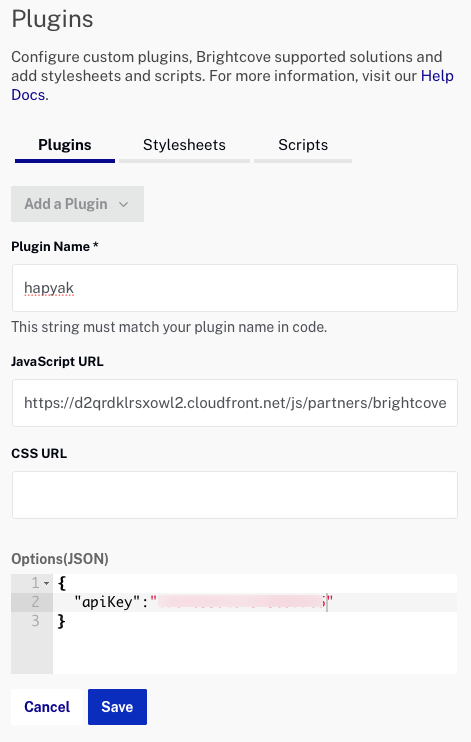
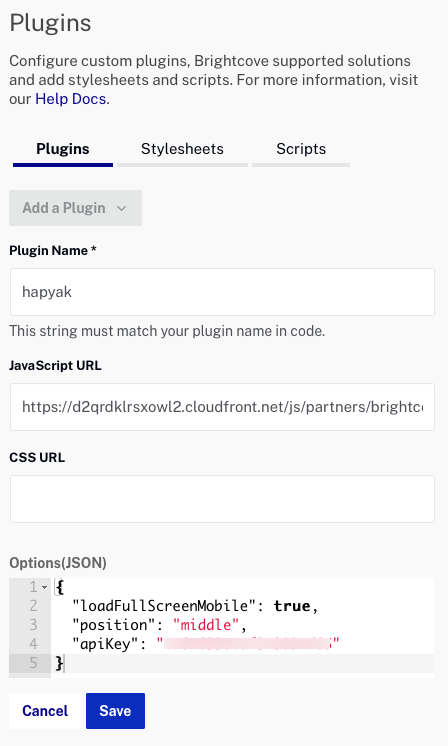
updates

diff --git a/_site/interactivity/getting-started-interactivity.html b/_site/interactivity/getting-started-interactivity.html
@@ -1262,7 +1262,13 @@ function doGTranslate(lang_pair) {if(lang_pair.value)lang_pair=lang_pair.value;i
 {
 "apiKey":"your HapYak API Read Key"
 }
-</code></pre>
+</code></pre></li>
+        <li>Some mobile devices will strip interactive elements when videos are opened in device-native players such as the  QuickTime player on iOS devices. HapYak has created a solution that overrides the default behavior of video on iOS and Android devices. By &quot;mocking full screen&quot;,  videos can play  full screen and retain HapYak interactive features. The following parameters can be added to the <strong>Options(JSON)</strong> to improve the experience on mobile devices:
+          <ul>
+          <li><strong><code>loadFullScreenMobile: true</code></strong> - Overrides the default fullscreen behavior on iOS devices</li>
+          <li><strong><code>position: middle</code></strong> - Ensures that the video appears in the middle of the devices display in portrait mode (mimics default behavior of all mobile devices)</li>
+        </ul>
+      </li>
         <figure class="bcls-figure"><img src="/assets/images/interactivity/gsi-plugin-settings.png"> </figure>
       </li>
       <li>If you wish to configure a &quot;read-only&quot; player which will display interactivity on existing Hapyak projects but will <strong>NOT</strong> publish any new projects, add the following parameter to the <strong>Options(JSON)</strong>, below the <code>apiKey</code> value:
@@ -1325,6 +1331,14 @@ function doGTranslate(lang_pair) {if(lang_pair.value)lang_pair=lang_pair.value;i
       </li>
       <li>Copy the embed code and paste it into your webpage.</li>
     </ol>
+<p>Additionally, in the embed code, you <strong>MUST</strong> add <code>playsinline</code> inside the <code>&lt;video-js&gt;</code> tag. Please reference the examples below:</p>
+<h3>Standard</h3>
+<pre>&lt;div<br>  style=&quot;position: relative; display: block; max-width: 960px;&quot;&gt;<br>  &lt;div<br>    style=&quot;padding-top: 56.25%;&quot;&gt;<br>    &lt;iframe<br>      src=&quot;//players.brightcove.net/1486906377/dunFq3vI6_default/index.html&quot;  <br>      playsinline<br>      allowfullscreen=&quot;&quot;<br>      allow=&quot;encrypted-media&quot;<br>      style=&quot;position: absolute; top: 0px; right: 0px; bottom: 0px; left: 0px; width: 100%; height: 100%;&quot;&gt;&lt;/iframe&gt;<br>  &lt;/div&gt;<br>&lt;/div&gt;</pre>
+<h3>Advanced</h3>
+<pre><code>
+&lt;div style=&quot;max-width: 960px;&quot;&gt;<br>  &lt;video-js
+    playsinline<br>    data-account=&quot;1486906377&quot;<br>    data-player=&quot;dunFq3vI6&quot;<br>    data-embed=&quot;default&quot;<br>    controls=&quot;&quot;<br>    data-application-id=&quot;&quot;<br>    class=&quot;vjs-fluid&quot;<br>    style=&quot;padding-top: 56.25%;&quot;&gt;<br>  &lt;/video-js&gt;<br>&lt;/div&gt;<br>&lt;script<br>  src=&quot;//players.brightcove.net/1486906377/dunFq3vI6_default/index.min.js&quot;&gt;<br>&lt;/script&gt;
+</code></pre>
   </section>
   <section class="bcls-section">
     <h2 id="works">How it works</h2>
@@ -1355,59 +1369,6 @@ function doGTranslate(lang_pair) {if(lang_pair.value)lang_pair=lang_pair.value;i
       <li>Do not manually modify the video source of a HapYak project that was automatically created. </li>
       <li>Do not use the EMBED code generated from the HapYak tools when using the plugin. Instead publish your videos per the normal Brightcove workflow.</li>
       <li>Workflow-generated projects can be deleted through the HapYak UI. Please note that subsequent loads of the corresponding video through the Brightcove Player will not auto-generate a separate project in the portal.</li>
-    </ol>
-  </section>
-  <section class="bcls-section">
-    <h2 id="advanced">Advanced</h2>
-    <ol class="bcls-tasklist-restart">
-      <li>You can tag a HapYak Template and add the same tag to multiple Brightcove videos. This is a quick and easy way to add identical annotations to dozens or hundreds of Brightcove videos. For example, if your video is tagged "click-to-buy-cta" then a matching HapYak Template also tagged "click-to-buy-cta" will be added to that video.</li>
-      <li>A custom javascript method can be provided to capture tracking events as they occur. To do so simply add the location of your javascript file in the plugin options for "hapyak"
-        <pre><code>
-{
-  "apiKey": …,
-  "customTracking": "https://dmhl2y7t4r72w.cloudfront.net/brightcove/bcovTrackingHandler.js"
-}
-</code></pre>
-      </li>
-      <li>HapYak loads its own copy of JQuery by default.   If you embed the Brightcove Player with the HapYak plugin enabled, HapYak will override an existing copy of JQuery already on the page when it loads.   To prevent this behavior and preserve an existing copy of JQuery, you must pass the “preserveJQuery” option in plugin options when setting up the plugin.   For example, specifying
-        <pre><code>
-{
-  "apiKey": …,
-  "preserveJQuery": true
-}
-</code></pre>
-        <p>will prevent HapYak from loading its own JQuery as long as there is already one on the page.</p>
-        <table class="bcls-table">
-          <caption class="bcls-caption--table">
-          Summary of HapYak jQuery Loading Behavior
-          </caption>
-          <tbody class="bcls-table__body">
-            <tr>
-              <td></td>
-              <td>preserveJQuery: true</td>
-              <td>preserveJQuery: false</td>
-            </tr>
-            <tr>
-              <td>jQuery present on page</td>
-              <td>Do not load jQuery</td>
-              <td>Load jQuery</td>
-            </tr>
-            <tr>
-              <td>jQuery absent from page</td>
-              <td>Load jQuery</td>
-              <td>Load jQuery</td>
-            </tr>
-          </tbody>
-        </table>
-      </li>
-      <li>HapYak emits a custom event on the Brightcove Player instance that notifies when the HapYak viewer instance is ready. This event is <code>hyViewerLoaded</code> which can be listened for using the following code:
-        <pre><code>
-bcPlayerInstance.on(‘hyViewerLoaded’, function () {
-   console.log(player.hapyakViewer);
-});
-</code></pre>
-        <p>As seen above, you can access the HapYak viewer instance off of the player instance as a property called <code>hapyakViewer</code>.</p>
-      </li>
     </ol>
   </section>
   <section class="bcls-section">

diff --git a/interactivity/getting-started-interactivity.html b/interactivity/getting-started-interactivity.html
@@ -45,7 +45,13 @@ layout: staging
 {
 "apiKey":"your HapYak API Read Key"
 }
-</code></pre>
+</code></pre></li>
+        <li>Some mobile devices will strip interactive elements when videos are opened in device-native players such as the  QuickTime player on iOS devices. HapYak has created a solution that overrides the default behavior of video on iOS and Android devices. By &quot;mocking full screen&quot;,  videos can play  full screen and retain HapYak interactive features. The following parameters can be added to the <strong>Options(JSON)</strong> to improve the experience on mobile devices:
+          <ul>
+          <li><strong><code>loadFullScreenMobile: true</code></strong> - Overrides the default fullscreen behavior on iOS devices</li>
+          <li><strong><code>position: middle</code></strong> - Ensures that the video appears in the middle of the devices display in portrait mode (mimics default behavior of all mobile devices)</li>
+        </ul>
+      </li>
         <figure class="bcls-figure"><img src="/assets/images/interactivity/gsi-plugin-settings.png"> </figure>
       </li>
       <li>If you wish to configure a &quot;read-only&quot; player which will display interactivity on existing Hapyak projects but will <strong>NOT</strong> publish any new projects, add the following parameter to the <strong>Options(JSON)</strong>, below the <code>apiKey</code> value:
@@ -108,6 +114,14 @@ layout: staging
       </li>
       <li>Copy the embed code and paste it into your webpage.</li>
     </ol>
+<p>Additionally, in the embed code, you <strong>MUST</strong> add <code>playsinline</code> inside the <code>&lt;video-js&gt;</code> tag. Please reference the examples below:</p>
+<h3>Standard</h3>
+<pre>&lt;div<br>  style=&quot;position: relative; display: block; max-width: 960px;&quot;&gt;<br>  &lt;div<br>    style=&quot;padding-top: 56.25%;&quot;&gt;<br>    &lt;iframe<br>      src=&quot;//players.brightcove.net/1486906377/dunFq3vI6_default/index.html&quot;  <br>      playsinline<br>      allowfullscreen=&quot;&quot;<br>      allow=&quot;encrypted-media&quot;<br>      style=&quot;position: absolute; top: 0px; right: 0px; bottom: 0px; left: 0px; width: 100%; height: 100%;&quot;&gt;&lt;/iframe&gt;<br>  &lt;/div&gt;<br>&lt;/div&gt;</pre>
+<h3>Advanced</h3>
+<pre><code>
+&lt;div style=&quot;max-width: 960px;&quot;&gt;<br>  &lt;video-js
+    playsinline<br>    data-account=&quot;1486906377&quot;<br>    data-player=&quot;dunFq3vI6&quot;<br>    data-embed=&quot;default&quot;<br>    controls=&quot;&quot;<br>    data-application-id=&quot;&quot;<br>    class=&quot;vjs-fluid&quot;<br>    style=&quot;padding-top: 56.25%;&quot;&gt;<br>  &lt;/video-js&gt;<br>&lt;/div&gt;<br>&lt;script<br>  src=&quot;//players.brightcove.net/1486906377/dunFq3vI6_default/index.min.js&quot;&gt;<br>&lt;/script&gt;
+</code></pre>
   </section>
   <section class="bcls-section">
     <h2 id="works">How it works</h2>
@@ -138,59 +152,6 @@ layout: staging
       <li>Do not manually modify the video source of a HapYak project that was automatically created. </li>
       <li>Do not use the EMBED code generated from the HapYak tools when using the plugin. Instead publish your videos per the normal Brightcove workflow.</li>
       <li>Workflow-generated projects can be deleted through the HapYak UI. Please note that subsequent loads of the corresponding video through the Brightcove Player will not auto-generate a separate project in the portal.</li>
-    </ol>
-  </section>
-  <section class="bcls-section">
-    <h2 id="advanced">Advanced</h2>
-    <ol class="bcls-tasklist-restart">
-      <li>You can tag a HapYak Template and add the same tag to multiple Brightcove videos. This is a quick and easy way to add identical annotations to dozens or hundreds of Brightcove videos. For example, if your video is tagged "click-to-buy-cta" then a matching HapYak Template also tagged "click-to-buy-cta" will be added to that video.</li>
-      <li>A custom javascript method can be provided to capture tracking events as they occur. To do so simply add the location of your javascript file in the plugin options for "hapyak"
-        <pre><code>
-{
-  "apiKey": …,
-  "customTracking": "https://dmhl2y7t4r72w.cloudfront.net/brightcove/bcovTrackingHandler.js"
-}
-</code></pre>
-      </li>
-      <li>HapYak loads its own copy of JQuery by default.   If you embed the Brightcove Player with the HapYak plugin enabled, HapYak will override an existing copy of JQuery already on the page when it loads.   To prevent this behavior and preserve an existing copy of JQuery, you must pass the “preserveJQuery” option in plugin options when setting up the plugin.   For example, specifying
-        <pre><code>
-{
-  "apiKey": …,
-  "preserveJQuery": true
-}
-</code></pre>
-        <p>will prevent HapYak from loading its own JQuery as long as there is already one on the page.</p>
-        <table class="bcls-table">
-          <caption class="bcls-caption--table">
-          Summary of HapYak jQuery Loading Behavior
-          </caption>
-          <tbody class="bcls-table__body">
-            <tr>
-              <td></td>
-              <td>preserveJQuery: true</td>
-              <td>preserveJQuery: false</td>
-            </tr>
-            <tr>
-              <td>jQuery present on page</td>
-              <td>Do not load jQuery</td>
-              <td>Load jQuery</td>
-            </tr>
-            <tr>
-              <td>jQuery absent from page</td>
-              <td>Load jQuery</td>
-              <td>Load jQuery</td>
-            </tr>
-          </tbody>
-        </table>
-      </li>
-      <li>HapYak emits a custom event on the Brightcove Player instance that notifies when the HapYak viewer instance is ready. This event is <code>hyViewerLoaded</code> which can be listened for using the following code:
-        <pre><code>
-bcPlayerInstance.on(‘hyViewerLoaded’, function () {
-   console.log(player.hapyakViewer);
-});
-</code></pre>
-        <p>As seen above, you can access the HapYak viewer instance off of the player instance as a property called <code>hapyakViewer</code>.</p>
-      </li>
     </ol>
   </section>
   <section class="bcls-section">
